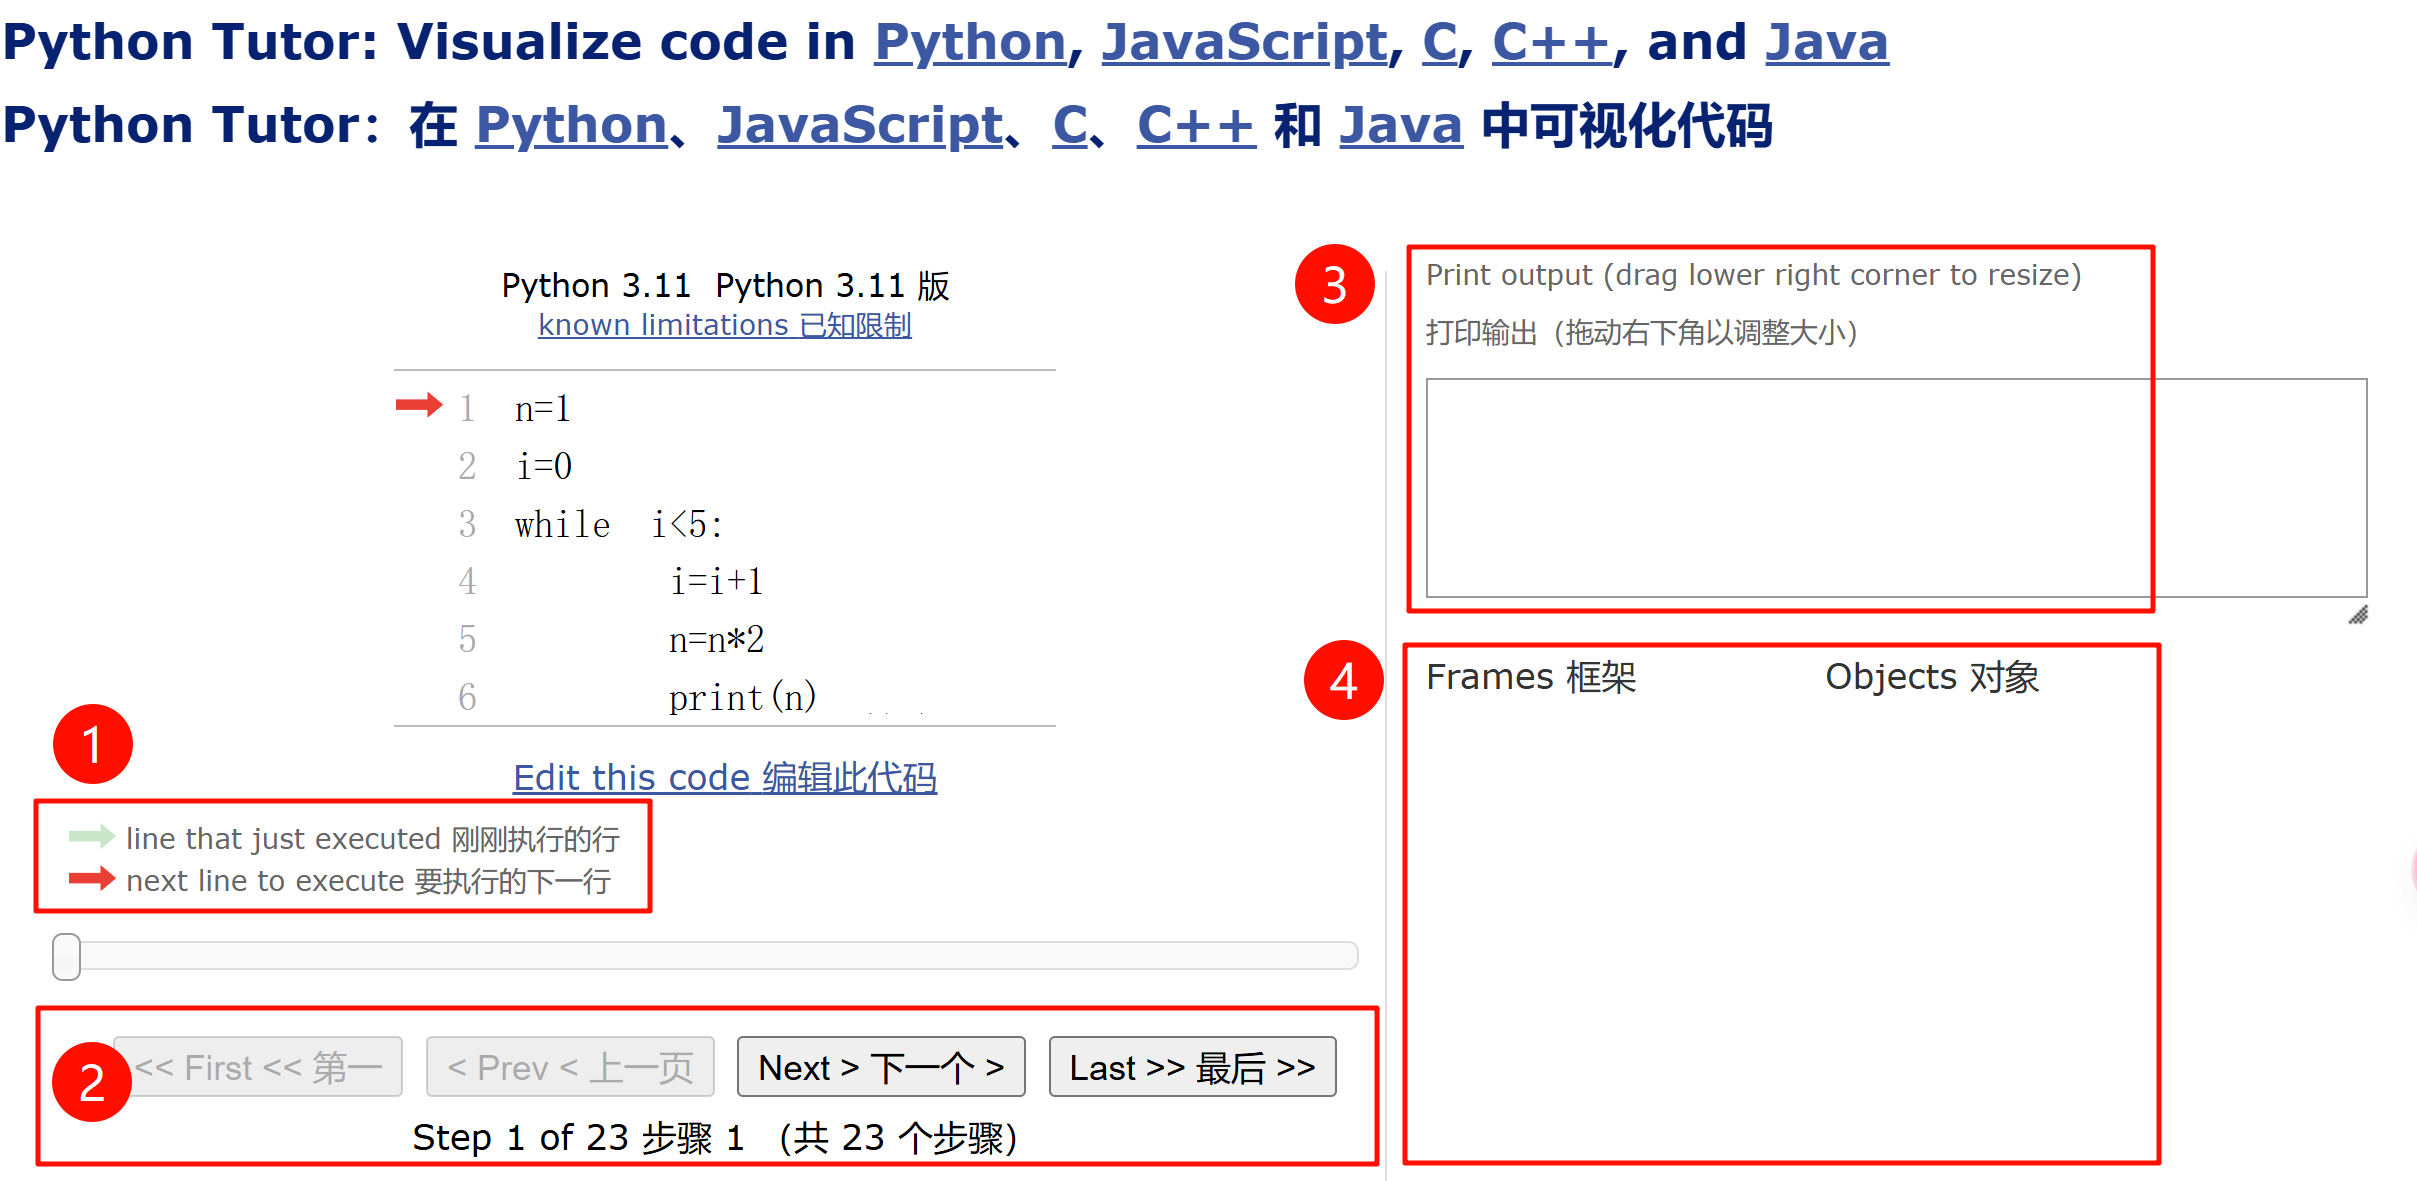
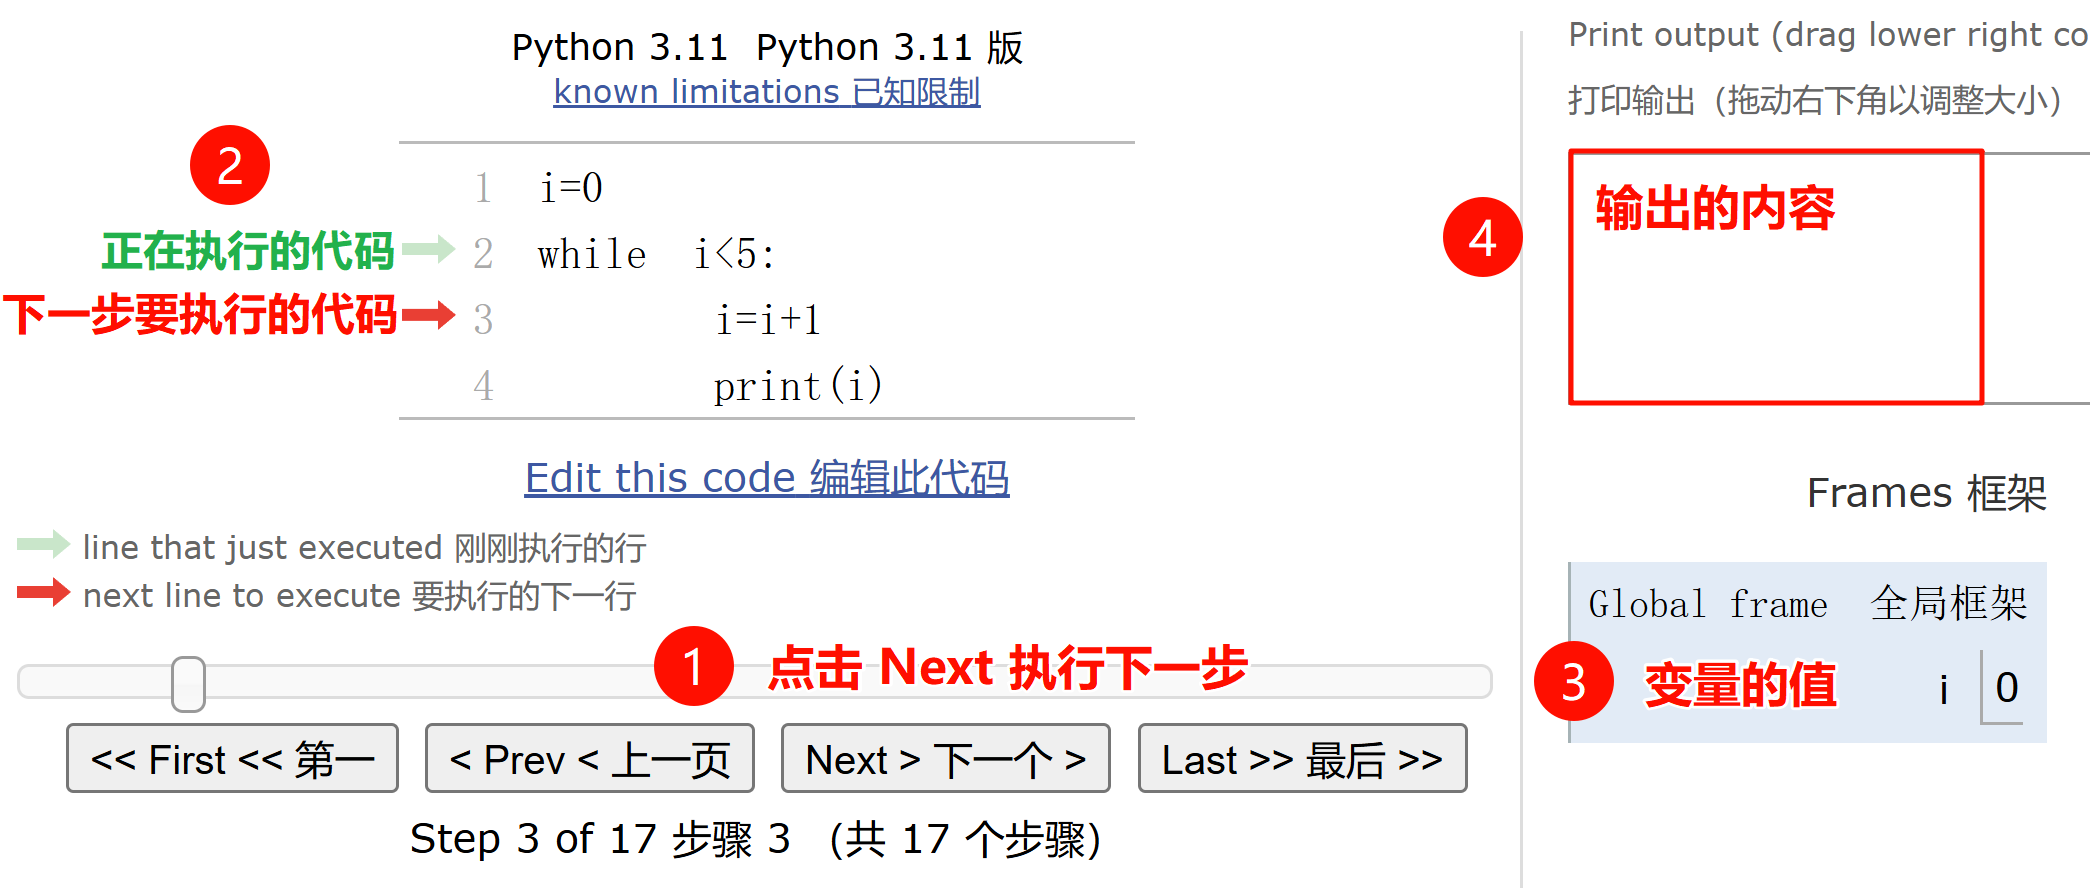
update

diff --git a/.vitepress/theme/index.ts b/.vitepress/theme/index.ts
@@ -3,6 +3,7 @@ import DefaultTheme from "vitepress/theme"
 import BVideo from "./components/BVideo.vue"
 import Author from "./components/Author.vue"
 import CodeEditor from "./components/CodeEditor.vue"
+import './custom.css'
 
 export default {
   extends: DefaultTheme,

diff --git a/.vitepress/theme/custom.css b/.vitepress/theme/custom.css
@@ -1,0 +1,3 @@
+:lang(zh) {
+    --vp-code-copy-copied-text-content: '已复制'
+ }

diff --git a/basic/tips/pythontutor/index.md b/basic/tips/pythontutor/index.md
@@ -1,81 +1,64 @@
-# 使用 [pythontutor.com](https://pythontutor.com/) 可视化的执行流程
+# 可视化执行流程
 
-![0](image.png)
+如图演示，我们可以精确控制代码的执行流程。
 
-由于网站都是英文的，所以接下来我会一步步的截图，请按照顺序执行
+![0](PixPin_2024-12-19_19-54-46.gif)
 
-## 1. 选择编程语言
+打开 [pythontutor.com](https://pythontutor.com/)，由于网站都是英文的，所以接下来我会一步步的截图，请按照顺序执行。
+
+## 第一步 选择编程语言
 
 ![1](image-1.png)
 
-## 2. 在输入框中粘贴代码
-
+## 第二步 在输入框中粘贴代码
 
 ![2](image-2.png)
 
 ```py
-n=1
 i=0
 while i<5:
     i=i+1
-    n=n*2
-    print(n)
+    print(i)
 ```
 
-## 3. 点击【可视化执行】按钮
+## 第三步 点击【可视化执行】按钮
 
 ![5](image-5.png)
 
-## 4. 进入调试页面
+## 第四步 进入调试页面
 
 ![4](image-4.png)
 
-① 绿色箭头表示【当前正在】执行的语句
+① 点击下一步
 
-② 红色箭头表示【接下来要】执行的语句
+② 绿色箭头表示【当前正在】执行的语句，红色箭头表示【下一步要】执行的语句
 
-③ 输出结果
+③ 显示变量的值
 
-④ 显示变量的值
+④ 输出的内容
 
-## 5. 基础调试
+## 第五步 调试代码
 
-![3](image-3.png)
+![1](PixPin_2024-12-19_19-45-49.gif)
 
-5.1 不断点击 ①【Next 下一步】按钮
+5.1 不断点击【Next】按钮
 
-5.2 代码左侧 ② 出现绿色和红色箭头，指向【当前】和【接下来】的执行语句。
+5.2 ① 注意【绿色】和【红色】箭头的走动
 
-5.3 右侧 ③ 实时展示变量的值
+5.3 ② 变量的值随着代码的执行而发生变化
 
-**注意观察箭头的走向和变量值的变化**
+5.4 ③ 输出内容的变化
 
-![1](PixPin_2024-12-19_11-19-48.gif)
+**注意观察箭头的行走和值的变化**
 
-## 6. 拖动进度条 *
-
-可以拖动进度条反复查看，或者点击【First】跳到第一步，【Last】直接跳到最后一步
-
-![2](PixPin_2024-12-19_11-22-54.gif)
-
-## 7. 更改代码再次调试
+## 第六步 更改代码再次调试
 
 点击【Edit this code】按钮可以修改代码
 
-![3](PixPin_2024-12-19_11-26-35.gif)
-
-**可以更改 i 的初始值 i=?，条件符号，条件值，计数器 i=i+? 等**
-
-![6](image-6.png)
-
-比如：
-
-![7](image-7.png)
-
-![8](image-8.png)
-
-![9](image-9.png)
+![2](PixPin_2024-12-19_19-58-47.gif)
 
 遇到弹框，直接点按钮
 
 ![10](image-10.png)
+
+## [完成任务](/basic/tasks/pythontutor/)

diff --git a/basic/tasks/pythontutor/index.md b/basic/tasks/pythontutor/index.md
@@ -1,0 +1,60 @@
+# 调试并记录
+
+## [前提自学](/basic/tips/pythontutor/)
+
+现在需要记录每次的调试过程，分别需要记录：
+
+1. 初始值
+
+2. 循环的条件
+
+3. 条件的值
+
+4. 计数器每次加的值
+
+5. 循环的次数
+
+每一项所对应的代码，如图：
+
+![0](image.png)
+
+每次填写后，刷新网页再次填写。
+
+打开：[https://lc.xuyue.cc/public-forms/do0zqi0xlpe](https://lc.xuyue.cc/public-forms/do0zqi0xlpe)
+
+
+## 第一步 两人一组，一人负责调试，一人负责记录
+
+![6](image-6.png)
+
+## 第二步 修改一次代码，调试并记录
+
+你可以选择以下其中一种，修改代码，调试并记录。
+
+1. 修改初始值，举个例子，从初始值 0 改为 2
+
+![3](image-3.png)
+
+2. 修改循环的条件，举个例子，从小于改为小于等于
+
+![7](image-7.png)
+
+3. 修改条件的数值，举个例子，从 5 改为 10
+
+![8](image-8.png)
+
+4. 修改计数器每次加的数，举个例子，从 1 改为 2
+
+![9](image-9.png)
+
+## 第三步 在自测猫中修改代码，记录
+
+打开：[https://code.xuyue.cc/?query=5](https://code.xuyue.cc/?query=5)
+
+每次修改【初始值、循环的条件、条件的值、计数器每次加的值】，运行查看循环次数，并记录。
+
+比如：
+
+![12](image-12.png)
+
+每组至少记录 5 份。
